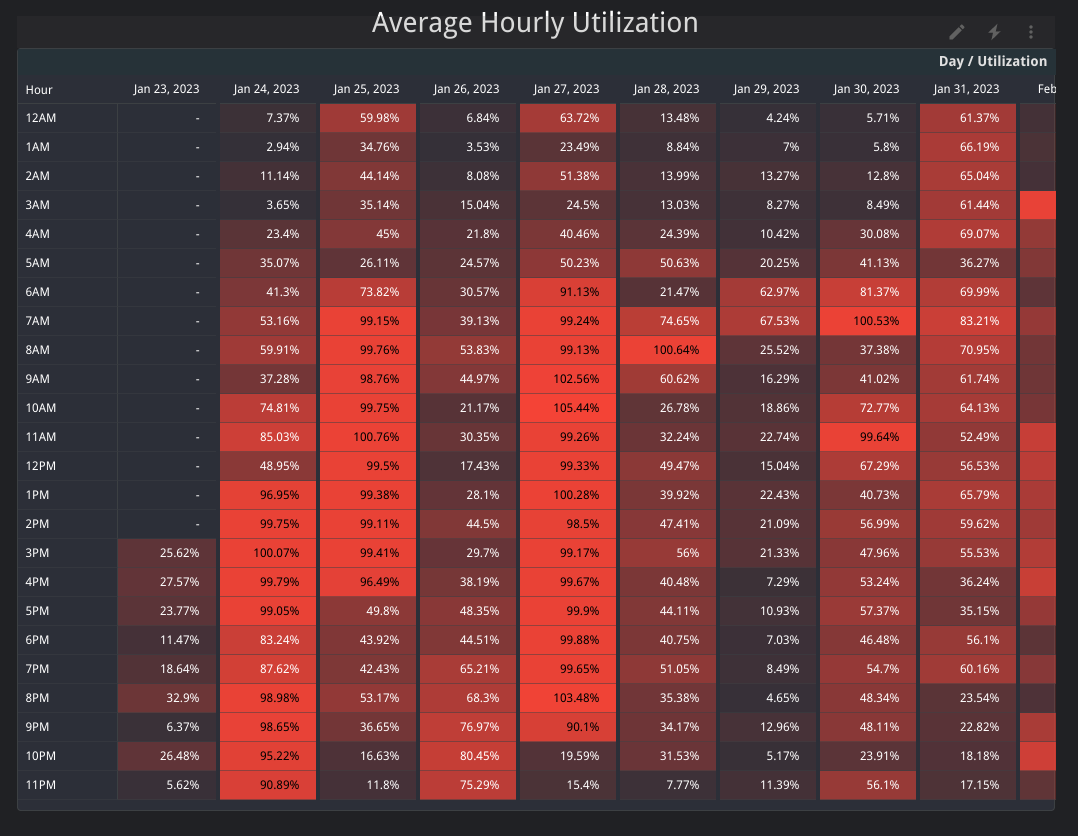
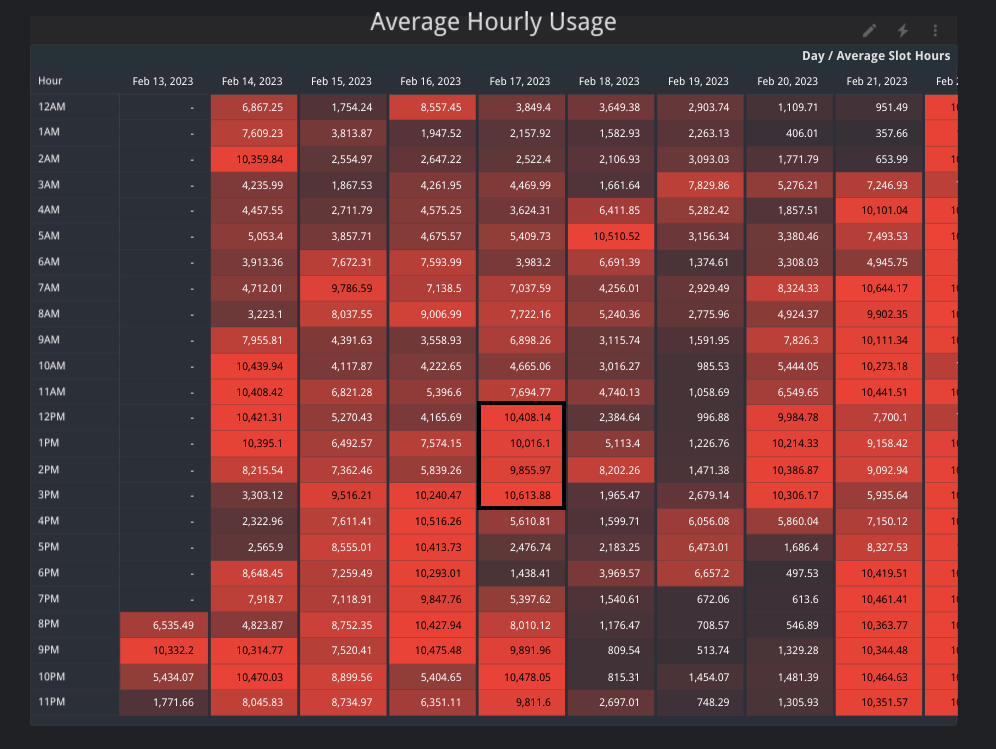
Added an hourly heatmap chart.

diff --git a/dashboards/system_tables/docs/hourly_utilization.md b/dashboards/system_tables/docs/hourly_utilization.md
@@ -48,7 +48,7 @@ This chart displays the average usage for every hour, sorted by days with the mo
 
 
 ### Hourly Heatmap
-This chart displays the overall slot utilization broken down by day and hour.
-Cell color scales based on utilization and the largest utilization values are shown in black text.
+This chart displays the average slot hours used broken down by day and hour.
+Cell color scales based on slot usage and the largest values are shown in black text.
 
 ![Hourly Heatmap](../images/hourly_utilization/hourly_heatmap.png)
